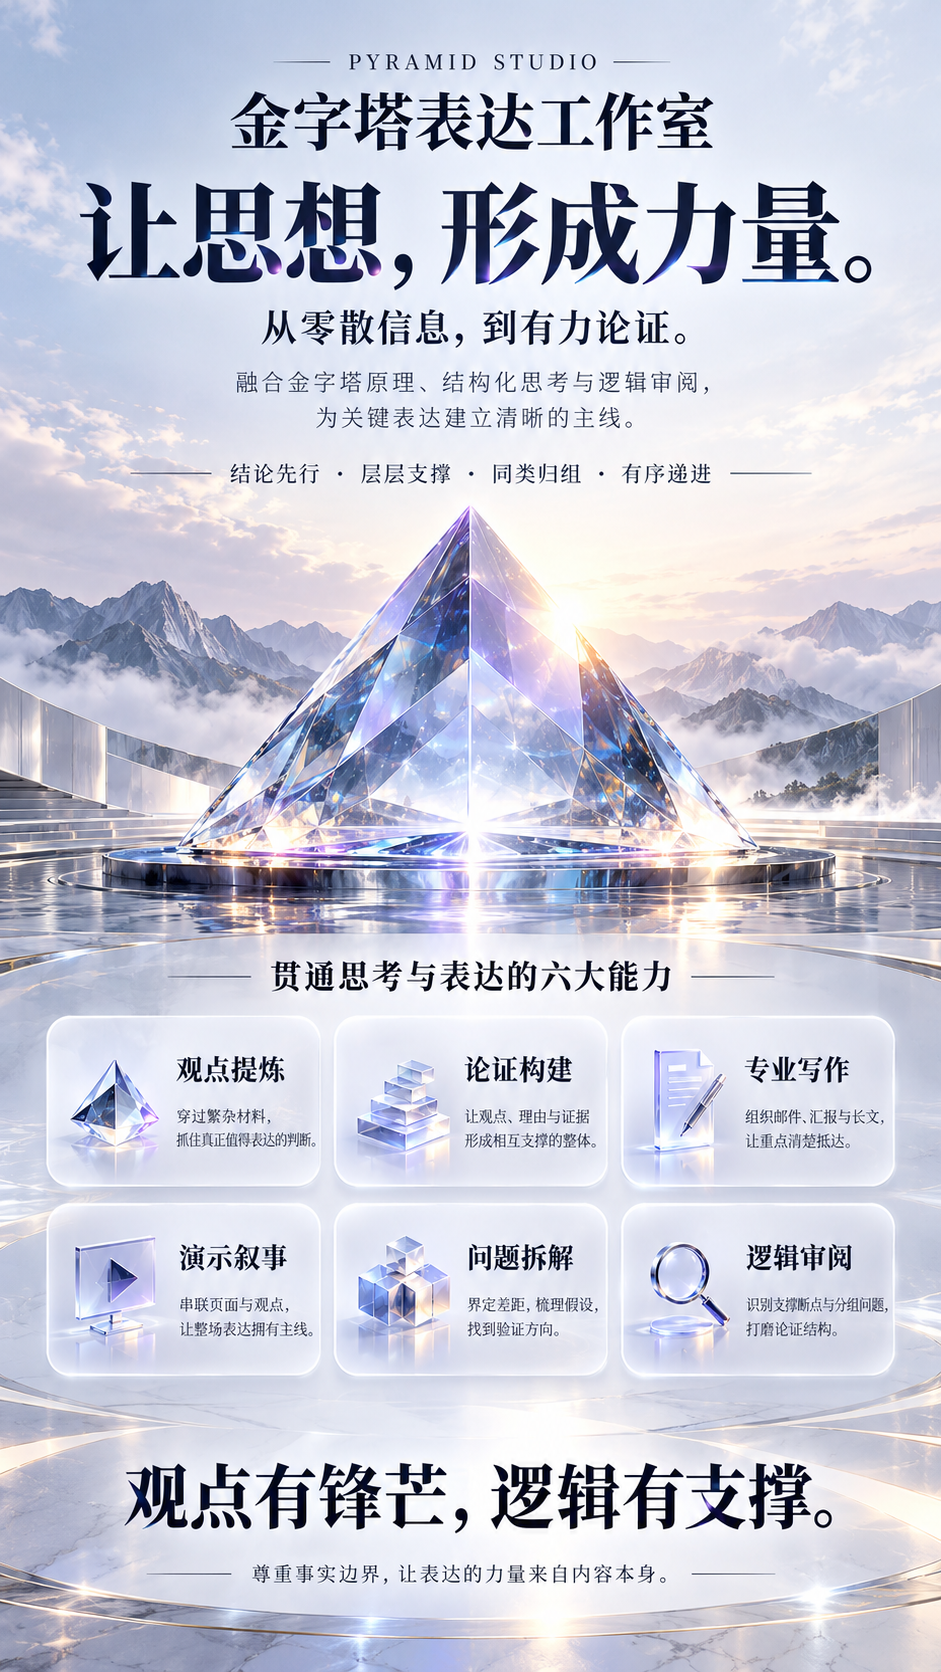
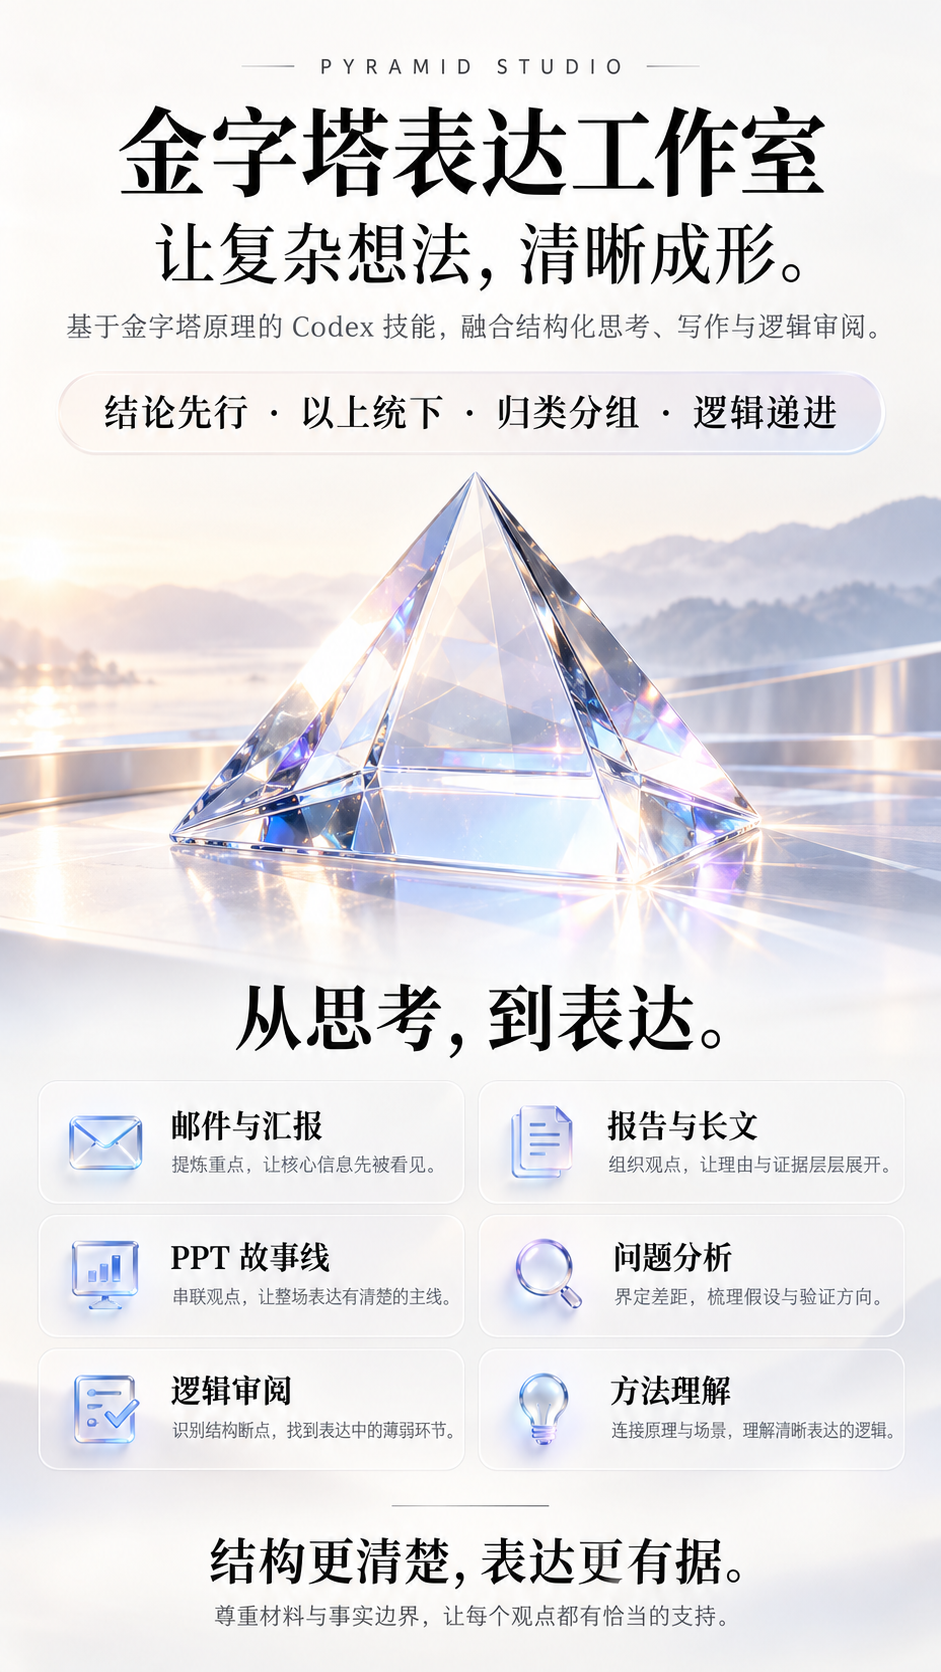
Use the exact poster selected by the user on the homepage

diff --git a/README.md b/README.md
@@ -13,7 +13,7 @@
 
 <br />
 
-<img src="posters/pyramid-studio-introduction.png" width="760" alt="金字塔表达工作室产品海报：让思想形成力量，贯通观点提炼、论证构建、专业写作、演示叙事、问题拆解与逻辑审阅。" />
+<img src="posters/pyramid-studio-introduction.png" width="760" alt="金字塔表达工作室产品海报：让复杂想法清晰成形，涵盖邮件汇报、报告长文、PPT故事线、问题分析、逻辑审阅与方法理解。" />
 
 <br />
 
